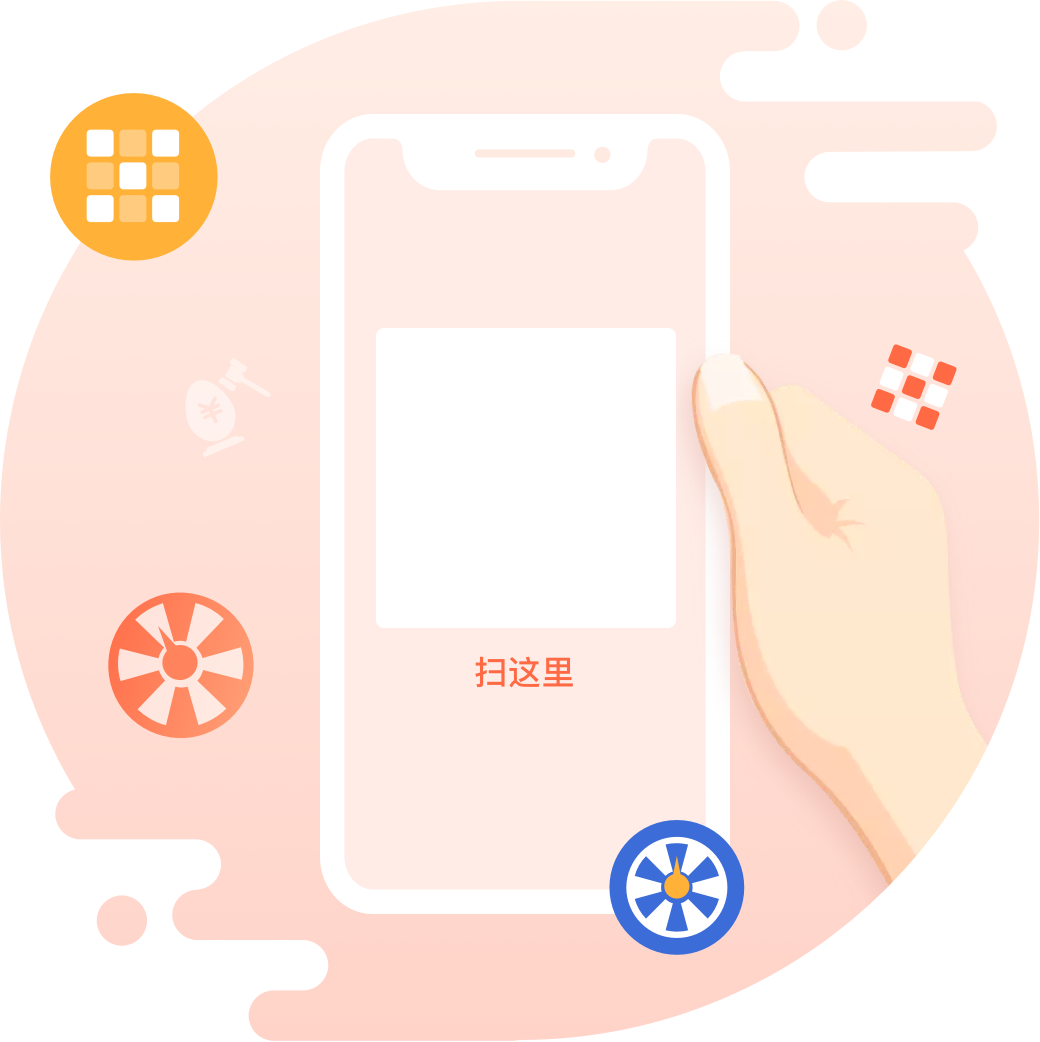
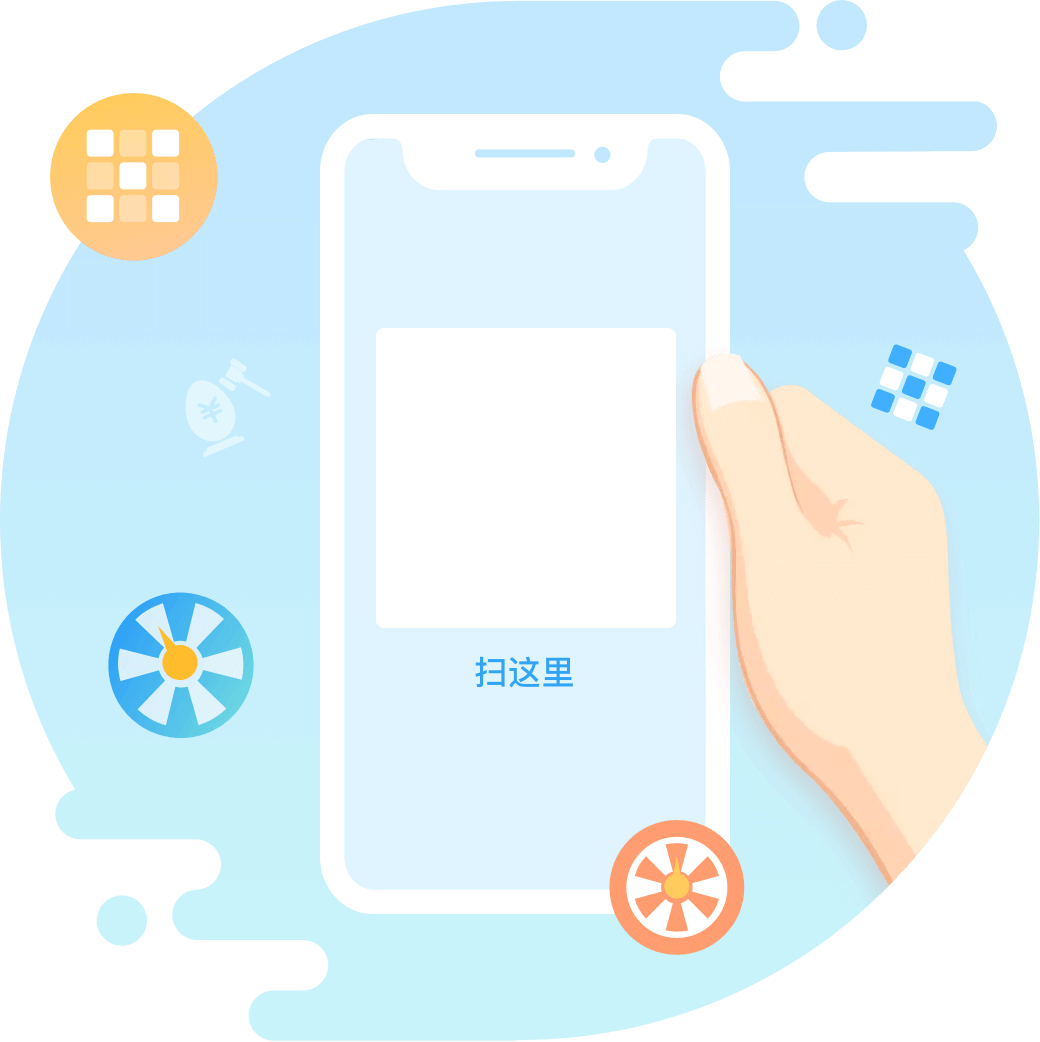
更换为厦门背景色与logo

diff --git a/src/components/browser.vue b/src/components/browser.vue
@@ -159,10 +159,10 @@ export default {
           width: px2rem(320px);
           height: px2rem(72px);
           line-height: px2rem(72px);
-          background: linear-gradient(318deg, #FFA37B 0%, #FF6A45 100%);
+          background: #ffffff;
           border-radius: px2rem(36px);
           @include font-dpr(14px);
-          color: #fff;
+          color: #31A3F5;
           text-align: center;
         }
         .tips1 {
